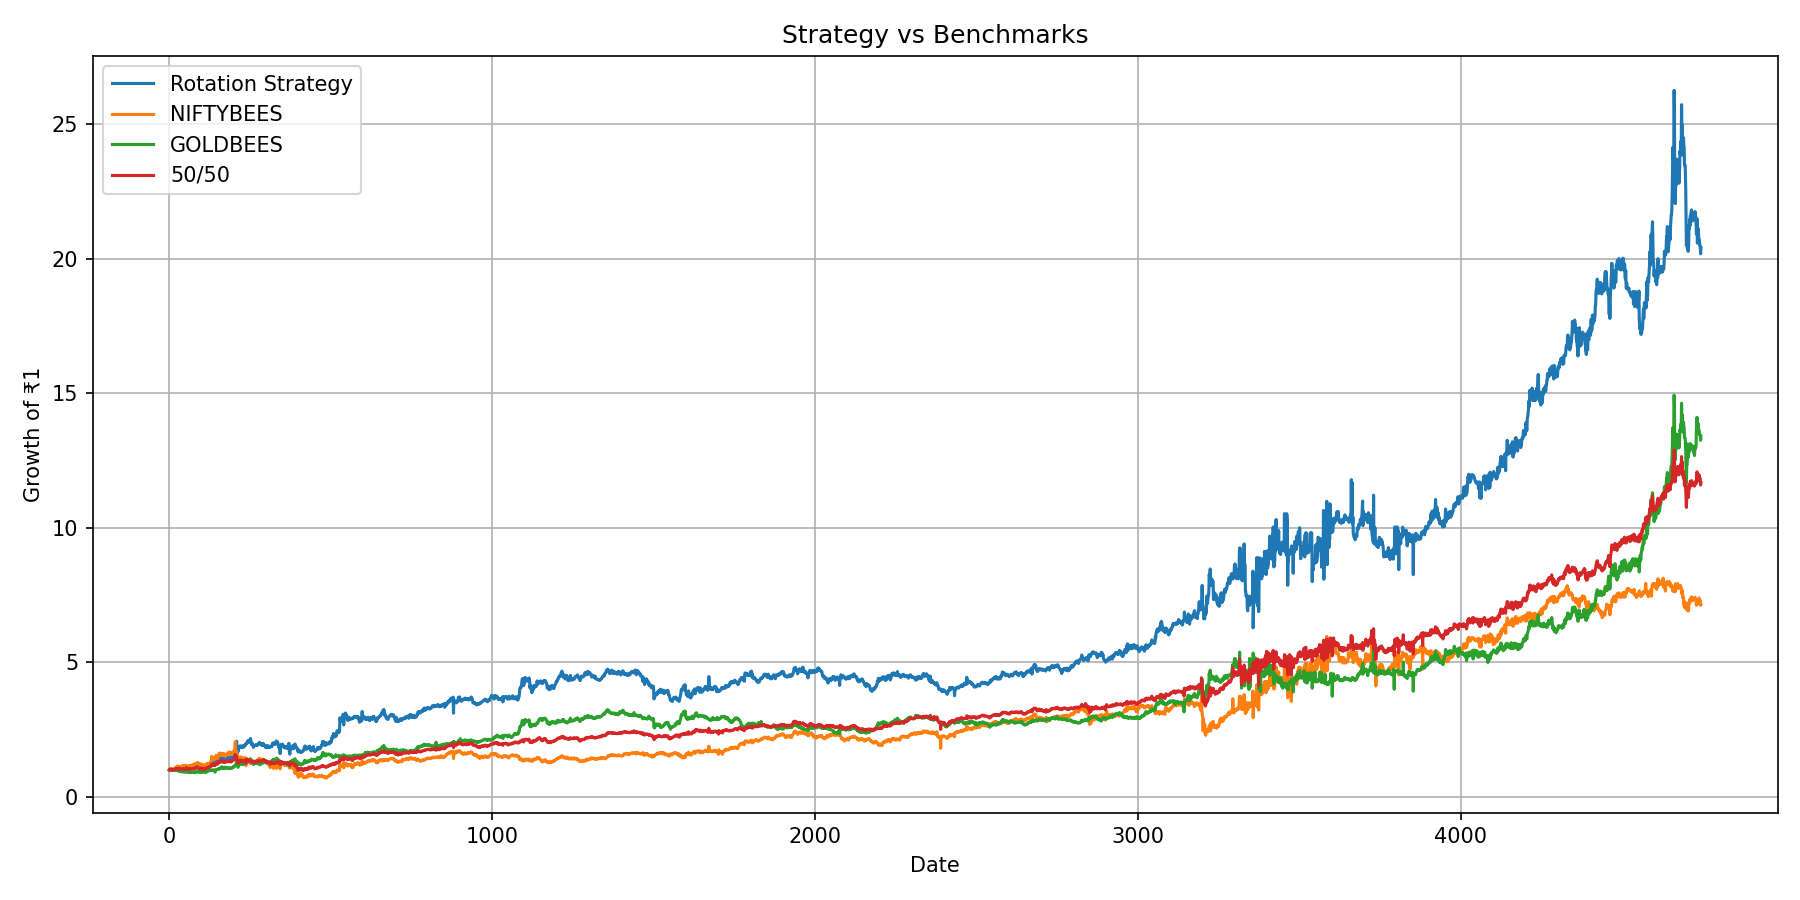
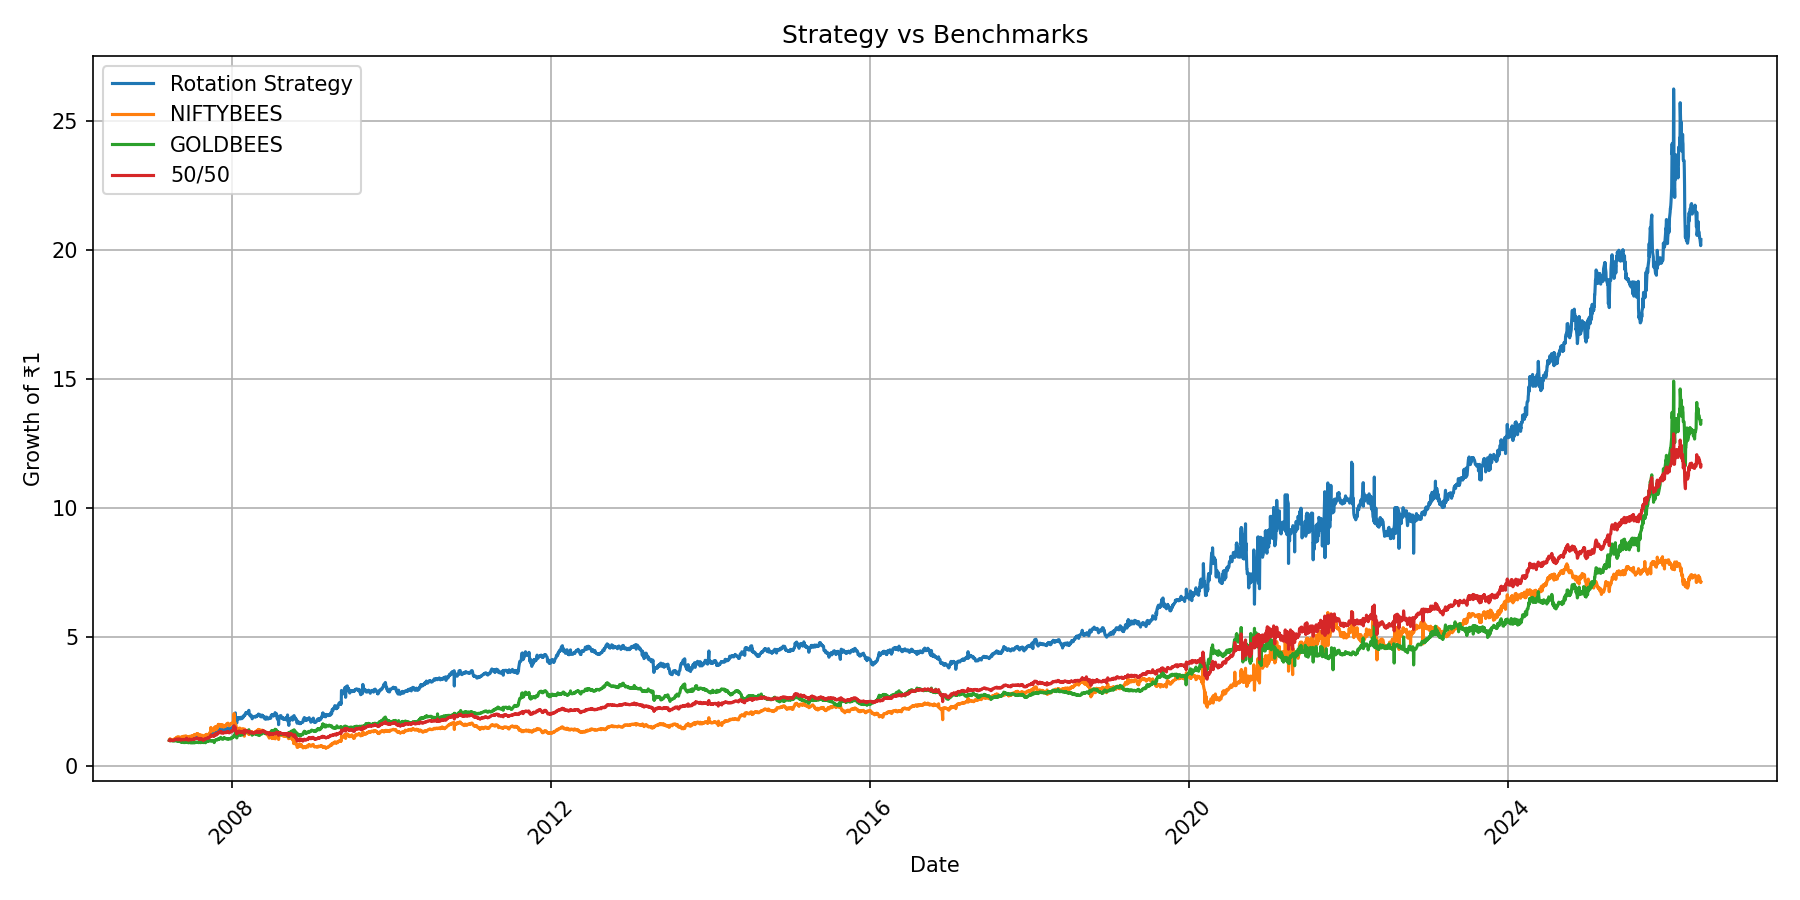
Fix chart date axes

diff --git a/src/visualization.py b/src/visualization.py
@@ -5,19 +5,45 @@
 from pathlib import Path
 
 import matplotlib.pyplot as plt
+import matplotlib.dates as mdates
 
 
 RESULTS_DIR = Path("results")
 
 
+def _prepare_dates(dates, length):
+    """Convert dates to datetime and align with equity length."""
+
+    dates = dates.iloc[:length].copy()
+
+    return dates
+
+
+def _format_date_axis():
+    """Format chart x-axis using readable calendar dates."""
+
+    ax = plt.gca()
+
+    ax.xaxis.set_major_locator(
+        mdates.AutoDateLocator()
+    )
+
+    ax.xaxis.set_major_formatter(
+        mdates.DateFormatter("%Y")
+    )
+
+    plt.xticks(rotation=45)
+
+
 def plot_equity_curves(
+    dates,
     strategy_equity,
     nifty_equity,
     gold_equity,
     balanced_equity,
 ):
     """
-    Plot normalized equity curves.
+    Plot normalized equity curves using actual dates.
     """
 
     RESULTS_DIR.mkdir(
@@ -25,29 +51,46 @@ def plot_equity_curves(
         exist_ok=True,
     )
 
+    length = min(
+        len(dates),
+        len(strategy_equity),
+        len(nifty_equity),
+        len(gold_equity),
+        len(balanced_equity),
+    )
+
+    dates = _prepare_dates(
+        dates,
+        length,
+    )
+
     plt.figure(figsize=(12, 6))
 
     plt.plot(
-        strategy_equity.index,
-        strategy_equity / strategy_equity.iloc[0],
+        dates,
+        strategy_equity.iloc[:length]
+        / strategy_equity.iloc[0],
         label="Rotation Strategy",
     )
 
     plt.plot(
-        nifty_equity.index,
-        nifty_equity / nifty_equity.iloc[0],
+        dates,
+        nifty_equity.iloc[:length]
+        / nifty_equity.iloc[0],
         label="NIFTYBEES",
     )
 
     plt.plot(
-        gold_equity.index,
-        gold_equity / gold_equity.iloc[0],
+        dates,
+        gold_equity.iloc[:length]
+        / gold_equity.iloc[0],
         label="GOLDBEES",
     )
 
     plt.plot(
-        balanced_equity.index,
-        balanced_equity / balanced_equity.iloc[0],
+        dates,
+        balanced_equity.iloc[:length]
+        / balanced_equity.iloc[0],
         label="50/50",
     )
 
@@ -57,6 +100,8 @@ def plot_equity_curves(
 
     plt.xlabel("Date")
     plt.ylabel("Growth of ₹1")
+
+    _format_date_axis()
 
     plt.legend()
     plt.grid(True)
@@ -72,10 +117,11 @@ def plot_equity_curves(
 
 
 def plot_strategy_drawdown(
+    dates,
     strategy_equity,
 ):
     """
-    Plot strategy drawdown.
+    Plot strategy drawdown using actual dates.
     """
 
     RESULTS_DIR.mkdir(
@@ -83,12 +129,26 @@ def plot_strategy_drawdown(
         exist_ok=True,
     )
 
+    length = min(
+        len(dates),
+        len(strategy_equity),
+    )
+
+    dates = _prepare_dates(
+        dates,
+        length,
+    )
+
+    equity = (
+        strategy_equity.iloc[:length]
+    )
+
     running_max = (
-        strategy_equity.cummax()
+        equity.cummax()
     )
 
     drawdown = (
-        strategy_equity
+        equity
         / running_max
         - 1
     )
@@ -96,7 +156,7 @@ def plot_strategy_drawdown(
     plt.figure(figsize=(12, 5))
 
     plt.plot(
-        drawdown.index,
+        dates,
         drawdown,
         label="Strategy Drawdown",
     )
@@ -107,6 +167,8 @@ def plot_strategy_drawdown(
 
     plt.xlabel("Date")
     plt.ylabel("Drawdown")
+
+    _format_date_axis()
 
     plt.legend()
     plt.grid(True)

diff --git a/main.py b/main.py
@@ -229,6 +229,7 @@ save_results(
 # ============================================================
 
 plot_equity_curves(
+    dates=data["time"],
     strategy_equity=data["equity"],
     nifty_equity=nifty_benchmark["equity"],
     gold_equity=gold_benchmark["equity"],
@@ -236,6 +237,7 @@ plot_equity_curves(
 )
 
 plot_strategy_drawdown(
+    dates=data["time"],
     strategy_equity=data["equity"],
 )
 
